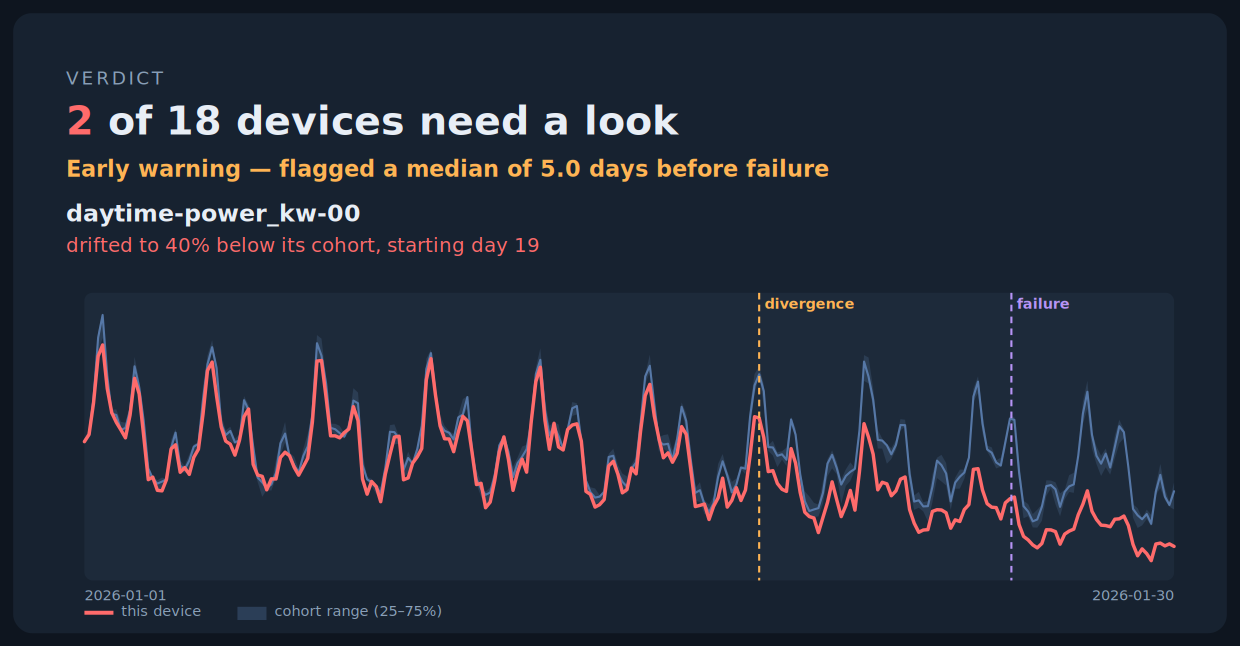
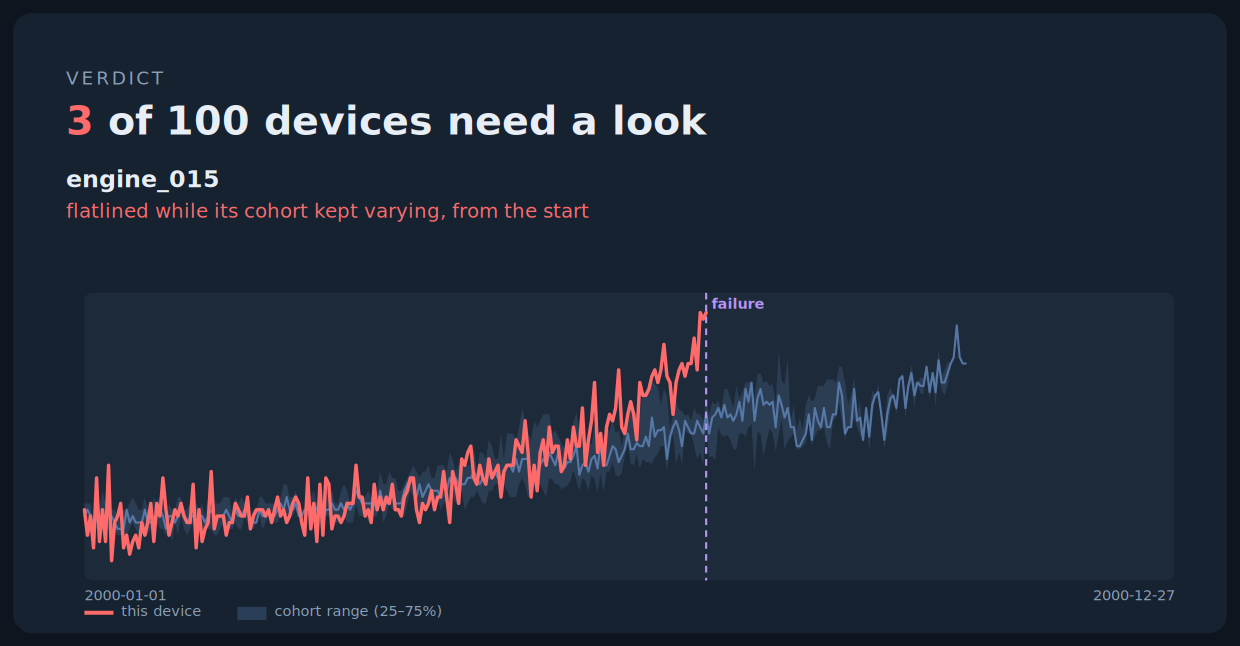
Use the NASA C-MAPSS engine_015 report as the README hero
Replace docs/peer-z-example.png with a render of a real-data report (C-MAPSS FD001,
single-fleet run) where engine_015 visibly breaks above its cohort band before the
failure marker — the clearest "this device vs its peers" image. Alt text updated in
both READMEs to credit the dataset. Presentation only.

https://claude.ai/code/session_017YrYuKj36YySMvnYQLwuit

diff --git a/README.md b/README.md
@@ -19,7 +19,7 @@ This repository is the **free, open core**: a batch backtesting engine. You give
 historical sensor data as CSV; it gives you back cohorts, per-device deviation
 timelines, and flagged assets with reasons.
 
-![BIoTan report — a single device breaking away from its cohort band, flagged days before failure](docs/peer-z-example.png)
+![BIoTan report — engine_015 of the NASA C-MAPSS turbofan fleet breaking away from its cohort band before failure](docs/peer-z-example.png)
 
 ## Install
 
